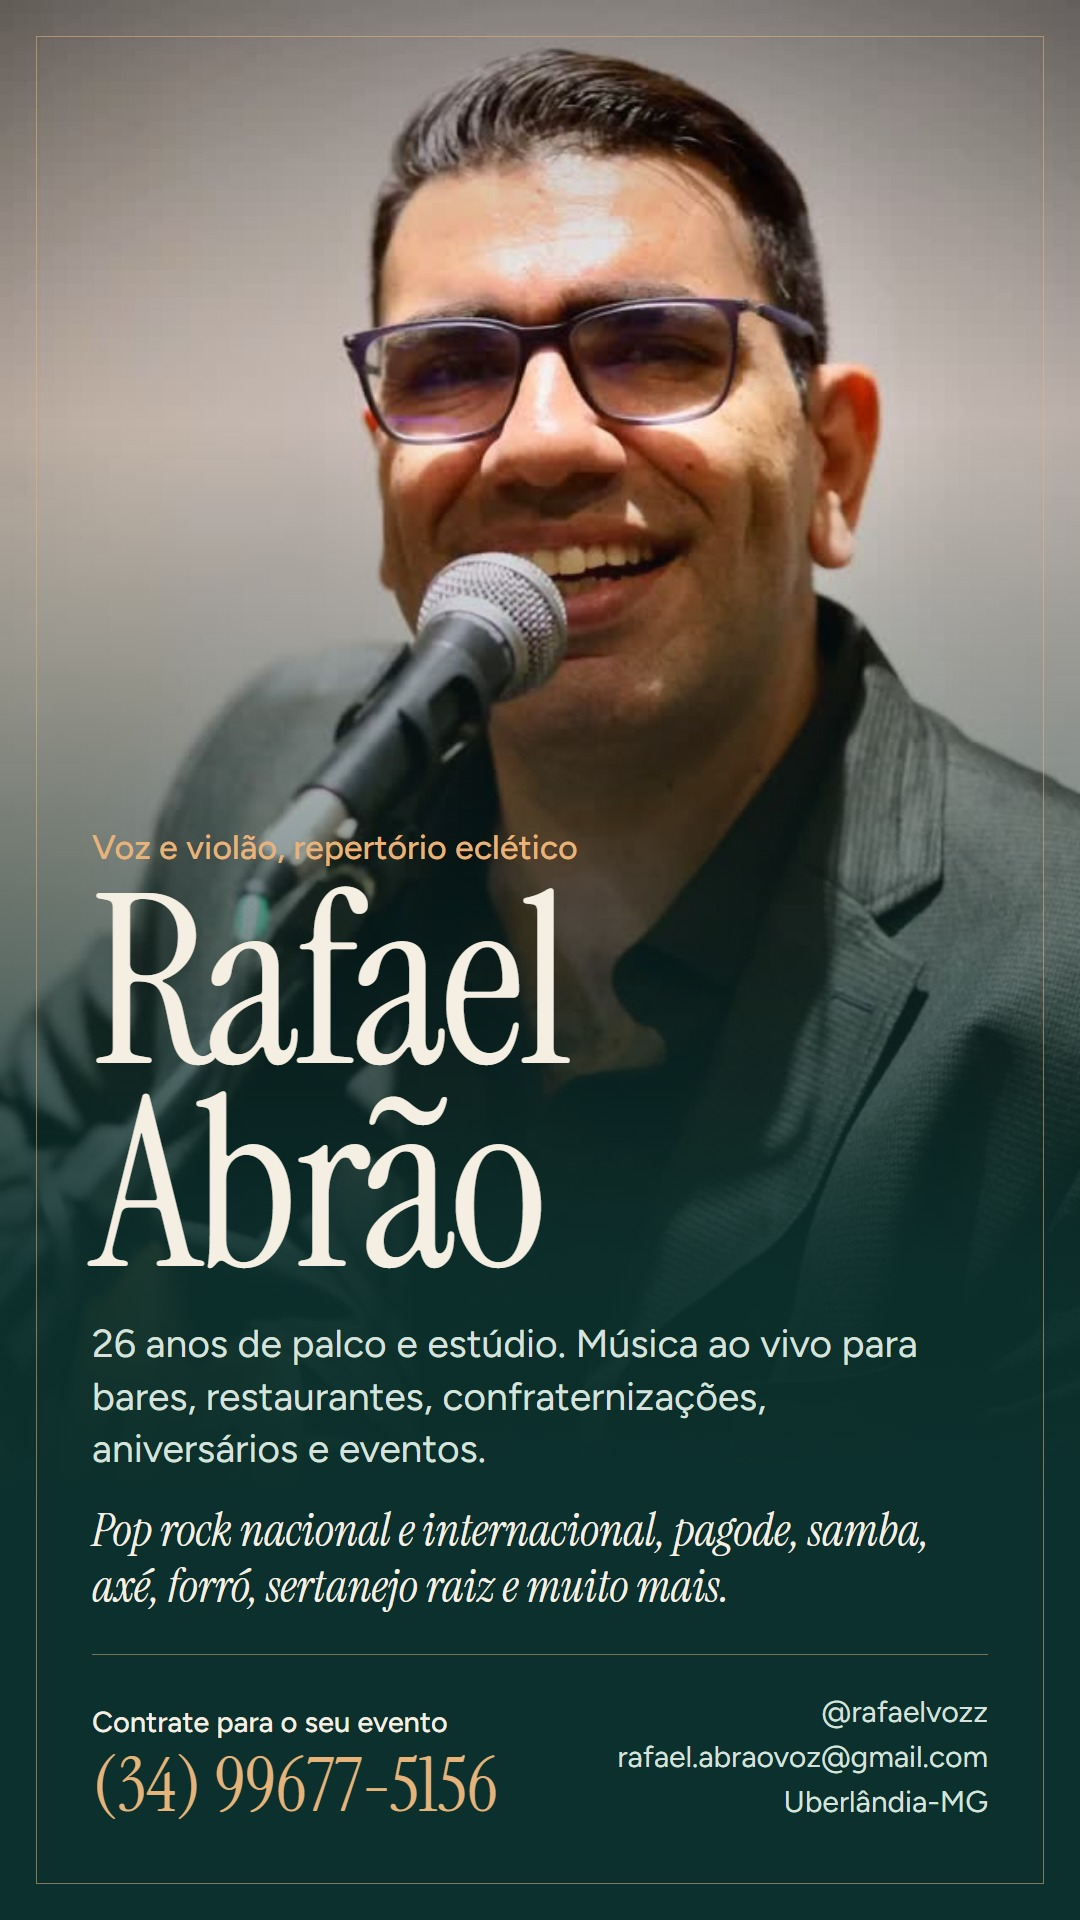
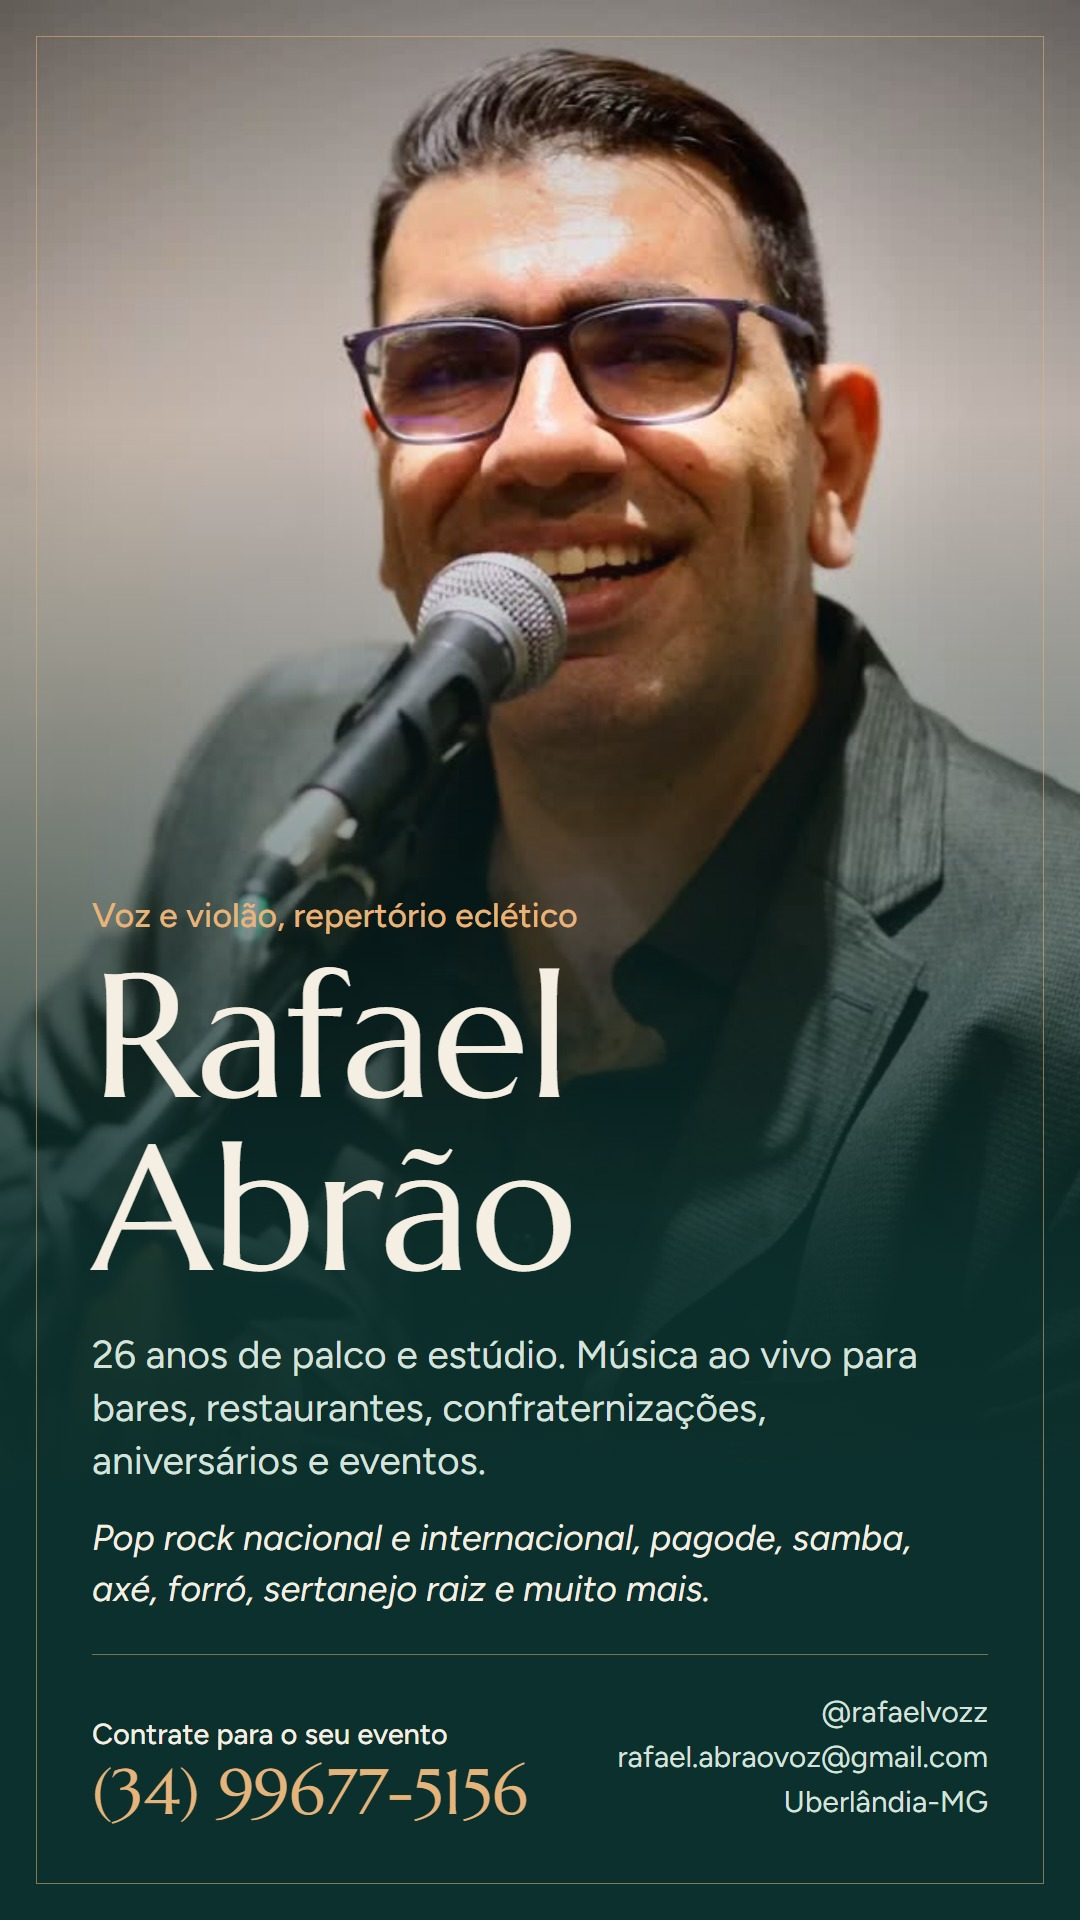
Fonte formal, sem a faixa de cordas

Changed region(s): [[0.0917, 0.4375, 0.8556, 0.8438], [0.0917, 0.875, 0.4889, 0.9688]]

diff --git a/index.html b/index.html
@@ -7,13 +7,13 @@
 <meta name="description" content="Rafael Abrão, voz e violão. 26 anos de palco e estúdio, repertório eclético para bares, eventos corporativos e festas em Uberlândia-MG.">
 <link rel="preconnect" href="https://fonts.googleapis.com">
 <link rel="preconnect" href="https://fonts.gstatic.com" crossorigin>
-<link rel="stylesheet" href="https://fonts.googleapis.com/css2?family=Figtree:wght@400;500;600&family=Instrument+Serif:ital@0;1&display=swap">
+<link rel="stylesheet" href="https://fonts.googleapis.com/css2?family=Figtree:ital,wght@0,400;0,500;0,600;1,400&family=Marcellus&display=swap">
 <style>
 :root{
   --petroleo:#12403c; --fundo:#0c302d; --painel:#174b46;
   --cobre:#e6b47a; --creme:#f5eee2; --salvia:#b4c7c0;
   --fio:rgba(230,180,122,.30); --fio2:rgba(245,238,226,.12);
-  --serif:'Instrument Serif',Georgia,serif; --sans:'Figtree',system-ui,sans-serif;
+  --serif:'Marcellus',Georgia,serif; --sans:'Figtree',system-ui,sans-serif;
 }
 *{box-sizing:border-box;margin:0;padding:0}
 html{scroll-behavior:smooth}
@@ -23,14 +23,14 @@ img{display:block;max-width:100%}
 :focus-visible{outline:2px solid var(--cobre);outline-offset:3px}
 .wrap{max-width:1200px;margin:0 auto;padding:0 32px}
 h1,h2,h3{font-family:var(--serif);font-weight:400;line-height:1}
-h2{font-size:clamp(42px,5.4vw,76px);letter-spacing:-.01em}
+h2{font-size:clamp(34px,4.2vw,58px);line-height:1.08}
 .rotulo{display:inline-flex;align-items:center;gap:10px;font-size:15px;font-weight:500;color:var(--cobre);margin-bottom:18px}
 .rotulo svg{width:19px;height:19px;fill:none;stroke:currentColor;stroke-width:1.5;stroke-linecap:round;stroke-linejoin:round}
 
 /* NAVEGAÇÃO */
 nav{position:sticky;top:0;z-index:20;background:rgba(18,64,60,.86);backdrop-filter:blur(12px);border-bottom:1px solid var(--fio2)}
 nav .wrap{display:flex;justify-content:space-between;align-items:center;height:62px}
-nav .marca{font-family:var(--serif);font-size:25px}
+nav .marca{font-family:var(--serif);font-size:21px;letter-spacing:.04em}
 nav ul{display:flex;gap:30px;list-style:none}
 nav ul a{position:relative;font-size:15px;color:var(--salvia);padding:6px 0;transition:color .2s}
 nav ul a::after{content:"";position:absolute;left:0;right:0;bottom:0;height:1px;background:var(--cobre);transform:scaleX(0);transform-origin:left;transition:transform .25s}
@@ -40,9 +40,9 @@ nav ul a:hover::after{transform:scaleX(1)}
 /* TOPO */
 .topo{position:relative;overflow:hidden;padding:84px 0 110px}
 .topo .wrap{position:relative;z-index:1;display:grid;grid-template-columns:1.1fr .9fr;gap:56px;align-items:center}
-.topo h1{font-size:clamp(84px,12vw,184px);line-height:.86;letter-spacing:-.025em;margin:6px 0 30px}
+.topo h1{font-size:clamp(62px,8.6vw,128px);line-height:.98;letter-spacing:-.01em;margin:6px 0 30px}
 .topo .abre{font-size:clamp(18px,1.7vw,21px);max-width:30em;color:var(--salvia)}
-.repertorio{margin-top:26px;max-width:24em;font-family:var(--serif);font-style:italic;font-size:clamp(22px,2.1vw,28px);line-height:1.3;color:var(--creme)}
+.repertorio{margin-top:26px;max-width:24em;font-family:var(--sans);font-style:italic;font-size:clamp(18px,1.6vw,21px);line-height:1.5;color:var(--creme)}
 .acoes{display:flex;gap:12px;margin-top:36px;flex-wrap:wrap}
 
 /* botões: sobem e acendem ao passar o ponteiro */
@@ -60,19 +60,12 @@ nav ul a:hover::after{transform:scaleX(1)}
 .retrato{position:relative;transform-style:preserve-3d;transform:rotateX(var(--rx,0deg)) rotateY(var(--ry,0deg));transition:transform .25s ease-out;will-change:transform}
 .retrato img{width:100%;height:auto;border:1px solid var(--fio);box-shadow:0 40px 80px -30px rgba(0,0,0,.55)}
 .retrato .aro{position:absolute;inset:0;border:1px solid var(--cobre);transform:translate3d(22px,22px,-70px);opacity:.7}
-.retrato .selo{position:absolute;left:-34px;bottom:54px;transform:translateZ(70px);background:var(--fundo);border:1px solid var(--fio);padding:14px 20px;font-family:var(--serif);font-size:25px;line-height:1.05;box-shadow:0 18px 40px -14px rgba(0,0,0,.6)}
+.retrato .selo{position:absolute;left:-34px;bottom:54px;transform:translateZ(70px);background:var(--fundo);border:1px solid var(--fio);padding:14px 20px;font-family:var(--serif);font-size:22px;line-height:1.1;box-shadow:0 18px 40px -14px rgba(0,0,0,.6)}
 .retrato .selo small{display:block;font-family:var(--sans);font-size:13.5px;color:var(--salvia);margin-top:4px}
 
 /* violão em traço, no canto do topo */
 .violao{position:absolute;right:-40px;bottom:-150px;width:min(46vw,520px);height:auto;transform:rotate(24deg);opacity:.2;pointer-events:none;z-index:0;overflow:visible}
 .violao *{fill:none;stroke:var(--cobre);stroke-width:1.1;stroke-linecap:round;stroke-linejoin:round}
-
-/* CORDAS EM 3D: faixa que responde ao ponteiro */
-.cordas3d{position:relative;height:250px;background:var(--fundo);border-top:1px solid var(--fio2);border-bottom:1px solid var(--fio2);overflow:hidden}
-.cordas3d canvas{position:absolute;inset:0;width:100%;height:100%;display:block}
-.cordas3d .dica{position:absolute;left:32px;bottom:20px;display:flex;align-items:center;gap:14px;font-size:14.5px;color:var(--salvia)}
-.cordas3d button{font:inherit;font-weight:600;color:var(--cobre);background:none;border:1px solid var(--fio);padding:7px 14px;cursor:pointer;transition:background .2s,color .2s,transform .2s}
-.cordas3d button:hover{background:var(--cobre);color:var(--fundo);transform:translateY(-2px)}
 
 /* SEÇÕES */
 section{padding:118px 0}
@@ -82,7 +75,7 @@ section.fundo{background:var(--fundo)}
 
 .historia{display:grid;grid-template-columns:1.05fr .95fr;gap:72px;align-items:start}
 .historia p{max-width:34em;margin-bottom:20px;color:#e3ddd0}
-blockquote{position:relative;font-family:var(--serif);font-style:italic;font-size:clamp(26px,2.7vw,36px);line-height:1.22;margin:34px 0 34px;padding-left:38px}
+blockquote{position:relative;font-family:var(--serif);font-style:normal;font-size:clamp(22px,2.1vw,28px);line-height:1.36;margin:34px 0 34px;padding-left:38px}
 blockquote::before{content:"\201C";position:absolute;left:0;top:-6px;font-size:64px;line-height:1;color:var(--cobre);font-style:normal}
 blockquote cite{display:block;margin-top:12px;font-family:var(--sans);font-style:normal;font-size:14.5px;color:var(--salvia)}
 .lembrancas{display:grid;gap:22px}
@@ -98,7 +91,7 @@ figcaption{margin-top:10px;font-size:14.5px;color:var(--salvia)}
 .mosaico img{width:100%;height:100%;object-fit:cover;transition:transform .5s}
 .mosaico a:hover{border-color:var(--cobre);transform:translateY(-4px);box-shadow:0 22px 40px -22px rgba(0,0,0,.7)}
 .mosaico a:hover img{transform:scale(1.03)}
-.mosaico a.mais{display:flex;flex-direction:column;justify-content:flex-end;padding:18px;background:var(--painel);font-family:var(--serif);font-size:clamp(22px,2.1vw,30px);line-height:1.05}
+.mosaico a.mais{display:flex;flex-direction:column;justify-content:flex-end;padding:18px;background:var(--painel);font-family:var(--serif);font-size:clamp(19px,1.8vw,25px);line-height:1.15}
 .mosaico a.mais span{font-family:var(--sans);font-size:14px;color:var(--cobre);margin-top:10px}
 .mosaico a.mais:hover{background:var(--cobre);color:var(--fundo)}
 .mosaico a.mais:hover span{color:var(--fundo)}
@@ -107,7 +100,7 @@ figcaption{margin-top:10px;font-size:14.5px;color:var(--salvia)}
 .setlist{list-style:none;border-bottom:1px solid var(--fio2)}
 .setlist li{display:grid;grid-template-columns:minmax(240px,1fr) 1.5fr;gap:40px;align-items:baseline;padding:28px 14px;border-top:1px solid var(--fio2);transition:background .25s,padding .25s}
 .setlist li:hover{background:rgba(230,180,122,.07);padding-left:26px}
-.setlist h3{font-size:clamp(30px,3.4vw,46px);transition:color .25s}
+.setlist h3{font-size:clamp(25px,2.6vw,36px);transition:color .25s}
 .setlist li:hover h3{color:var(--cobre)}
 .setlist p{max-width:32em;color:var(--salvia)}
 .trio{display:grid;grid-template-columns:.8fr 1fr 1fr;gap:12px;margin-top:54px;align-items:start}
@@ -126,7 +119,7 @@ figcaption{margin-top:10px;font-size:14.5px;color:var(--salvia)}
 
 /* CONTATO */
 .contato{padding:130px 0 120px}
-.contato h2{font-size:clamp(52px,8.4vw,128px);line-height:.92;letter-spacing:-.02em;max-width:11em}
+.contato h2{font-size:clamp(42px,6vw,92px);line-height:1.04;max-width:12em}
 .contato .acoes{margin-top:44px}
 footer{padding:30px 0 40px;border-top:1px solid var(--fio2);font-size:14.5px;color:var(--salvia)}
 footer .wrap{display:flex;justify-content:space-between;gap:20px;flex-wrap:wrap}
@@ -147,7 +140,6 @@ footer .wrap{display:flex;justify-content:space-between;gap:20px;flex-wrap:wrap}
   section{padding:80px 0}
   .mosaico{grid-template-columns:repeat(3,1fr)}
   .setlist li{grid-template-columns:1fr;gap:8px}
-  .cordas3d{height:190px}
 }
 @media(max-width:560px){.trio{grid-template-columns:1fr}.mosaico{grid-template-columns:repeat(2,1fr)}.wrap{padding:0 20px}}
 @media(prefers-reduced-motion:reduce){*{transition:none!important;scroll-behavior:auto!important}}
@@ -200,11 +192,6 @@ footer .wrap{display:flex;justify-content:space-between;gap:20px;flex-wrap:wrap}
   </div>
 </div>
 </header>
-
-<div class="cordas3d" id="cordas3d">
-  <canvas aria-hidden="true"></canvas>
-  <div class="dica"><span>Passe o ponteiro nas cordas.</span><button type="button" id="som" aria-pressed="false">Ligar som</button></div>
-</div>
 
 <section id="historia"><div class="wrap historia">
   <div>
@@ -318,77 +305,6 @@ footer .wrap{display:flex;justify-content:space-between;gap:20px;flex-wrap:wrap}
     palco.addEventListener('pointerleave',function(){ret.style.setProperty('--ry','0deg');ret.style.setProperty('--rx','0deg');});
   }
 
-  // seis cordas em perspectiva: o ponteiro cruza, a corda vibra (e toca, com o som ligado)
-  var caixa=document.getElementById('cordas3d'), c=caixa.querySelector('canvas'), g=c.getContext('2d');
-  var W=0,H=0,cordas=[],notas=[82.41,110,146.83,196,246.94,329.63],audio=null,ligado=false,antes=null,visivel=true;
-  for(var i=0;i<6;i++)cordas.push({amp:0,fase:Math.random()*6.28,vel:5+i*1.3});
-  function medir(){
-    var d=Math.min(window.devicePixelRatio||1,2);
-    W=caixa.clientWidth;H=caixa.clientHeight;c.width=W*d;c.height=H*d;g.setTransform(d,0,0,d,0,0);
-  }
-  // perto (esquerda, cordas abertas) -> longe (direita, convergindo)
-  function ponto(i,t){
-    var y0=H*(.16+i*.115), y1=H*(.36+i*.034);
-    return {x:-30+(W+60)*t, y:y0+(y1-y0)*t, s:1-.72*t};
-  }
-  function yDaCorda(i,x){var t=(x+30)/(W+60);return ponto(i,Math.max(0,Math.min(1,t))).y;}
-  function tocar(i,forca){
-    cordas[i].amp=Math.min(30,cordas[i].amp+forca);
-    if(!ligado||!audio)return;
-    var o=audio.createOscillator(), v=audio.createGain(), agora=audio.currentTime;
-    o.type='triangle';o.frequency.value=notas[i]*2;
-    v.gain.setValueAtTime(0,agora);v.gain.linearRampToValueAtTime(.16,agora+.008);v.gain.exponentialRampToValueAtTime(.0008,agora+1.5);
-    o.connect(v);v.connect(audio.destination);o.start(agora);o.stop(agora+1.6);
-  }
-  function desenhar(ms){
-    var tempo=ms/1000;
-    g.clearRect(0,0,W,H);
-    for(var i=0;i<6;i++){
-      var k=cordas[i], N=48, ant=null;
-      for(var j=0;j<=N;j++){
-        var t=j/N, p=ponto(i,t);
-        var bal=Math.sin(Math.PI*t)*(k.amp+(calmo?0:1.2))*p.s*Math.sin(tempo*k.vel*6+k.fase);
-        var y=p.y+bal;
-        if(ant){
-          g.beginPath();g.moveTo(ant.x,ant.y);g.lineTo(p.x,y);
-          g.lineWidth=(2.9-i*.36)*p.s+.35;
-          g.strokeStyle='rgba(230,180,122,'+(.16+.62*p.s).toFixed(3)+')';
-          g.stroke();
-        }
-        ant={x:p.x,y:y};
-      }
-      k.amp*=.962;
-    }
-    if(!calmo&&visivel)requestAnimationFrame(desenhar);
-  }
-  caixa.addEventListener('pointermove',function(e){
-    var r=caixa.getBoundingClientRect(), x=e.clientX-r.left, y=e.clientY-r.top;
-    if(antes){
-      for(var i=0;i<6;i++){
-        var a=antes.y-yDaCorda(i,antes.x), b=y-yDaCorda(i,x);
-        if(a*b<0)tocar(i,Math.min(24,8+Math.abs(y-antes.y)*1.4));
-      }
-    }
-    antes={x:x,y:y};
-  });
-  caixa.addEventListener('pointerleave',function(){antes=null;});
-  var botao=document.getElementById('som');
-  botao.addEventListener('click',function(){
-    ligado=!ligado;
-    if(ligado&&!audio){var A=window.AudioContext||window.webkitAudioContext;if(A)audio=new A();}
-    if(audio&&audio.state==='suspended')audio.resume();
-    botao.textContent=ligado?'Desligar som':'Ligar som';
-    botao.setAttribute('aria-pressed',ligado?'true':'false');
-    if(ligado)tocar(2,14);
-  });
-  window.addEventListener('resize',function(){medir();if(calmo)desenhar(0);});
-  if('IntersectionObserver' in window){
-    new IntersectionObserver(function(es){
-      var v=es[0].isIntersecting;
-      if(v&&!visivel){visivel=true;requestAnimationFrame(desenhar);}else visivel=v;
-    }).observe(caixa);
-  }
-  medir();requestAnimationFrame(desenhar);
 })();
 </script>
 </body>
